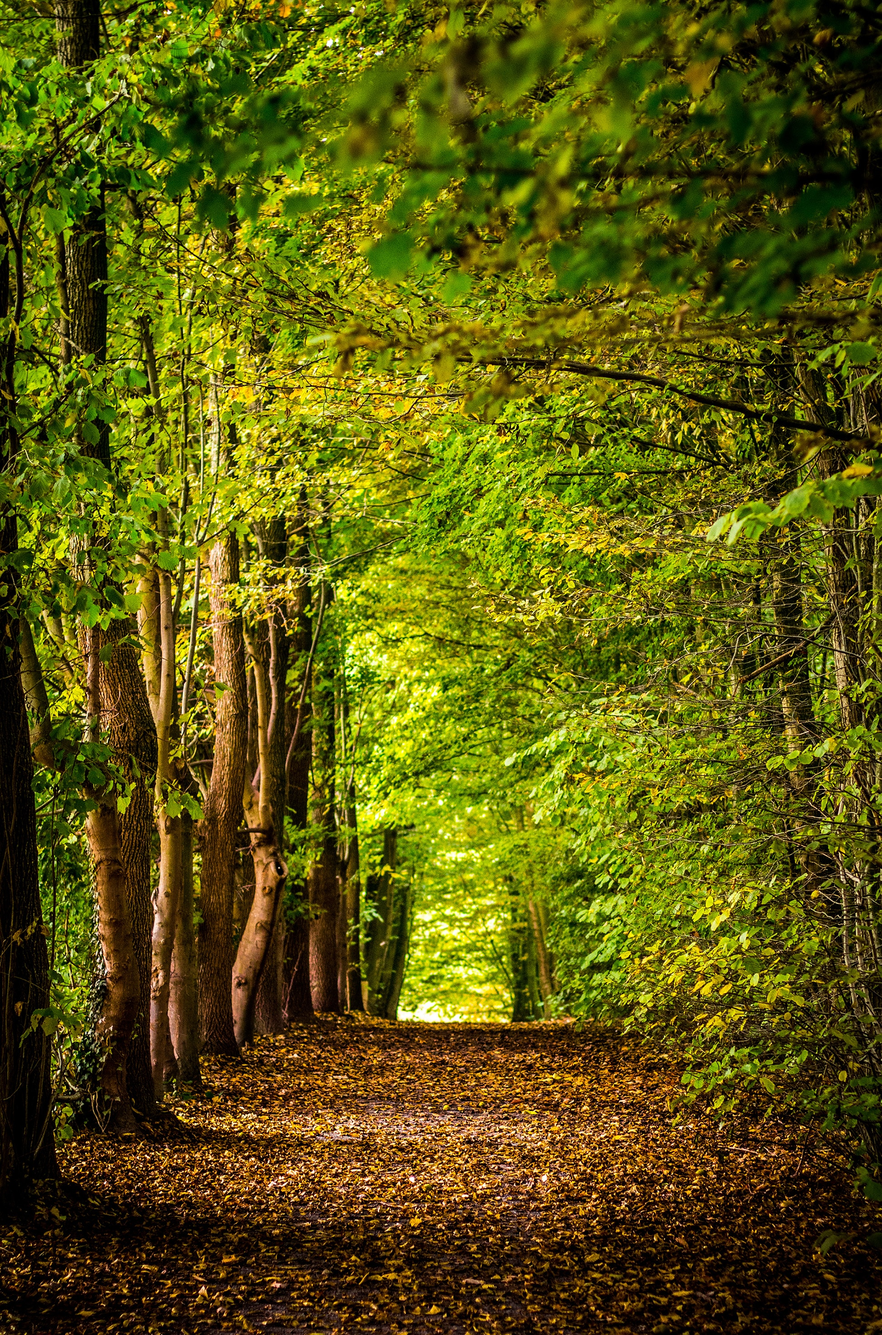
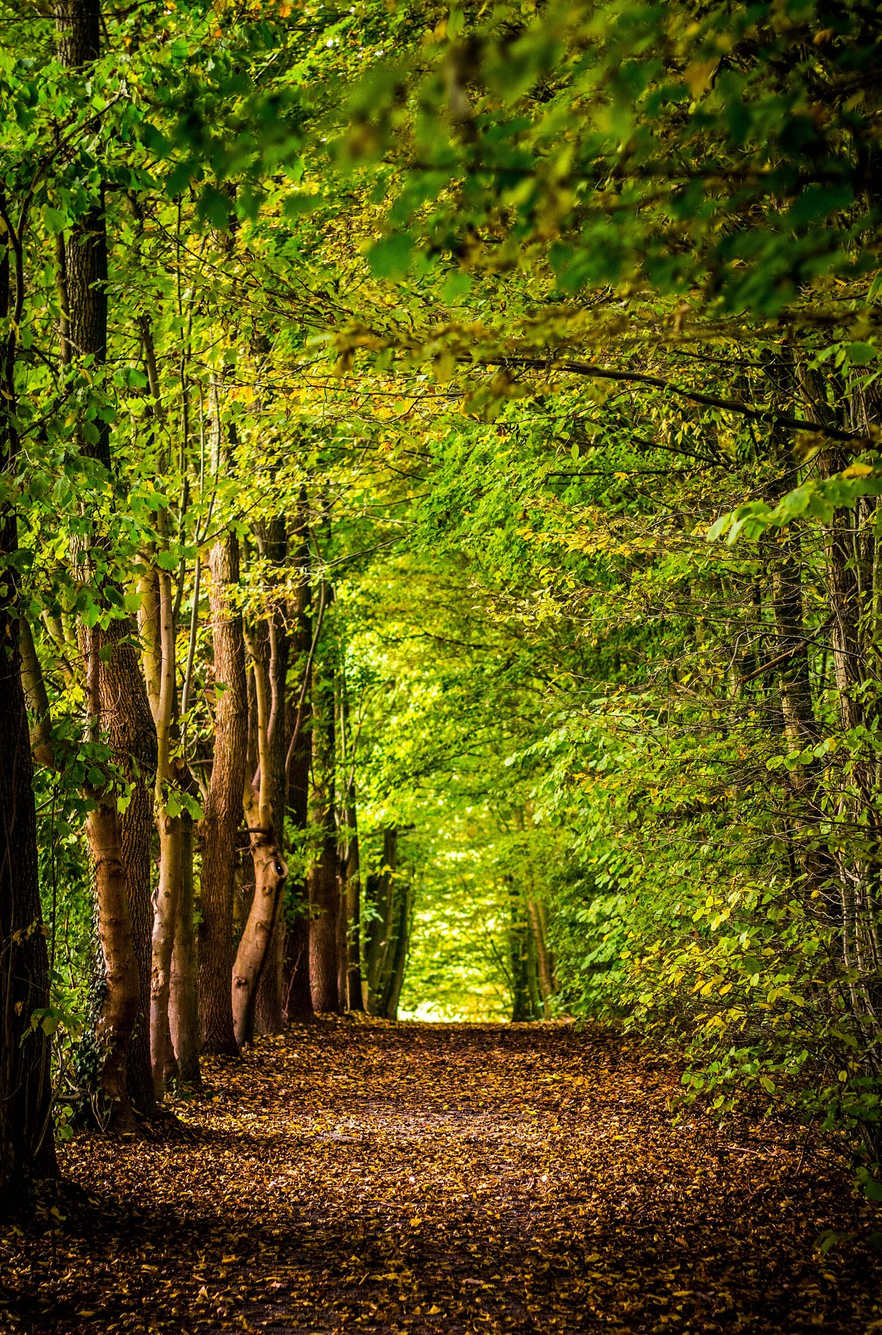
-Added exit title instructions to gallery -Compressed nature images -Added left and right arrows to lightbox gallery -Added keypress Event Listeners to lightbox gallery -Added click functionality to left and right arrows

diff --git a/gallery_assets/gallery_js/gallery-nature.js b/gallery_assets/gallery_js/gallery-nature.js
@@ -6,11 +6,24 @@ const lightbox = document.createElement('div');
 
 //Give the lightbox div an id
 lightbox.id = 'lightbox';
-lightbox.tabIndex = -1;
+lightbox.tabIndex = -1;//Sets tabindex for focus
 
-//Appends the lightbox div to the body element 
-document.body.appendChild(lightbox);
+//Create Arrows
+// Left arrow
+let leftArrDiv = document.createElement('div'); 
+leftArrDiv.innerHTML = "<span>&lt;</span>";
+leftArrDiv.classList.add('left-arrow');
 
+// Right arrow
+let rightArrDiv = document.createElement('div');
+rightArrDiv.innerHTML = "</span>&gt;</span>";
+rightArrDiv.classList.add('right-arrow');
+
+//Appends the lightbox div to the body element(removed and attached to container instead)
+// document.body.appendChild(lightbox);
+
+let container = document.getElementById('container'); 
+container.insertAdjacentElement('beforeend', lightbox);
 
 //Iterate through each of the masonry items in the array
 items.forEach((item) => {
@@ -25,6 +38,7 @@ items.forEach((item) => {
     lightbox.classList.add('active');
     const image = document.createElement('img');    
     image.src = img.src;
+    image.classList.add('lightbox-image');
     image.tabIndex = -1;
 
     //Remove existing image if present before appending new image
@@ -32,9 +46,31 @@ items.forEach((item) => {
       lightbox.removeChild(lightbox.firstChild);
     }
     lightbox.appendChild(image);
+
+    //Append exit message above images (This will be changed to a close icon in future releases)
+    let msgDiv = document.createElement('div');
+    let msg = document.createTextNode("CLICK OUTSIDE THE IMAGE TO EXIT!");
+    msgDiv.appendChild(msg);
+    msgDiv.classList.add('msg-container');
     
+    // Left arrow
+    // let leftArrDiv = document.createElement('div'); 
+    // leftArrDiv.innerHTML = "<span>&lt;</span>";
+    // leftArrDiv.classList.add('left-arrow');
+    
+    // Right arrow
+    // let rightArrDiv = document.createElement('div');
+    // rightArrDiv.innerHTML = "</span>&gt;</span>";
+    // rightArrDiv.classList.add('right-arrow');
+
+    // Insert new elements into the DOM
+    lightbox.insertBefore(leftArrDiv, image);
+    lightbox.insertBefore(msgDiv, leftArrDiv);
+    lightbox.appendChild(rightArrDiv);
   });
+
   console.log(img.src);
+  
 });
 
 // This code will close the lightbox
@@ -45,8 +81,17 @@ lightbox.addEventListener('click', (event) => {
     lightbox.classList.remove('active');
 });
 
+
+// Code for scrolling with keypress
 lightbox.addEventListener('keydown', (event) => {
-  console.log(event.keyCode);
+  console.log(items);
+  let currentImgSrc = String(event.target.currentSrc);
+  let sources = [];
+
+  //Initialize Sources array to get all image sources
+  for(let i = 0; i < items.length; i++) {
+    sources.push(items[i].children[0].src);
+  }
 
   // If ESC key is pressed window closes
   if(event.keyCode === 27) {
@@ -55,19 +100,100 @@ lightbox.addEventListener('keydown', (event) => {
 
   //left arrow pressed
   else if(event.keyCode === 37){
-    console.log("left arrow pressed!");
 
+    let currentSrcIndex = sources.indexOf(currentImgSrc);
+    let newSrcIndex = currentSrcIndex - 1;
+
+    //new image with a source one index less than current
+    const newImage = document.createElement('img');
+    newImage.classList.add('lightbox-image');
+    newImage.src = sources[currentSrcIndex - 1];
+    
+
+    console.log("Original Image Src: " + currentImgSrc);
+    console.log("New Image Src: " + sources[currentSrcIndex - 1]);
+    console.log("Source Index: " + currentSrcIndex);
+    console.log("New Source Index: " + (currentSrcIndex - 1));
+
+    
+    //Ensure the sources array does not go below 0th index
+    if(newSrcIndex >= 0) {
+      //Update Dom with newImage
+      lightbox.replaceChild(newImage, lightbox.childNodes[2]);
+      newImage.tabIndex = -1;//Sets tabindex for focus on new images
+    }
+    else{
+      //remove left arrow when at start of array
+      let arrow = document.getElementsByClassName('left-arrow');
+      lightbox.removeChild(arrow);
+      
+      if(arrow)
+      newSrcIndex = currentSrcIndex;
+
+      //Update DOM with same image
+    }
+  }
+  else if(event.keyCode === 39) {
+    console.log(lightbox.childNodes);
+    console.log("right arrow pressed");
+  }  
+});
+
+// Code for clicking on arrows
+leftArrDiv.addEventListener('click', (event) => {
+  let sources = [];
+
+  //Initialize Sources array to get all image sources
+  for(let i = 0; i < items.length; i++) {
+    sources.push(items[i].children[0].src);
   }
 
-  else if(event.keyCode === 39) {
-    console.log("right arrow pressed");
+  let currentImgSrc = String(lightbox.childNodes[2].src);
+  console.log("CIS");
+  console.log(currentImgSrc);
+  let currentSrcIndex = sources.indexOf(currentImgSrc);
+  let newSrcIndex = currentSrcIndex - 1;
+  
+
+  //new image with a source one index less than current
+  const newImage = document.createElement('img');
+  newImage.classList.add('lightbox-image');
+  newImage.src = sources[currentSrcIndex - 1];
+
+  if(newSrcIndex >= 0) {
+    //Update Dom with newImage
+    lightbox.replaceChild(newImage, lightbox.childNodes[2]);
+    newImage.tabIndex = -1;//Sets tabindex for focus on new images
   }
 });
 
+rightArrDiv.addEventListener('click', (event) => {
+  let sources = [];
+
+  //Initialize Sources array to get all image sources
+  for(let i = 0; i < items.length; i++) {
+    sources.push(items[i].children[0].src);
+  }
+
+  let currentImgSrc = String(lightbox.childNodes[2].src);
+  let currentSrcIndex = sources.indexOf(currentImgSrc);
+  let newSrcIndex = currentSrcIndex + 1;
+  
+  console.log("Original Image Src: " + currentImgSrc);
+  console.log("New Image Src: " + sources[currentSrcIndex + 1]);
+  console.log("Source Index: " + currentSrcIndex);
+  console.log("New Source Index: " + (currentSrcIndex + 1));
 
 
+  //new image with a source one index less than current
+  const newImage = document.createElement('img');
+  newImage.classList.add('lightbox-image');
+  newImage.src = sources[currentSrcIndex + 1];
 
-
-
-
-console.log(items);
+  if(newSrcIndex < sources.length) {
+    //Update Dom with newImage
+    lightbox.replaceChild(newImage, lightbox.childNodes[2]);
+    newImage.tabIndex = -1;//Sets tabindex for focus on new images
+  }
+  
+});

diff --git a/gallery-nature.html b/gallery-nature.html
@@ -3,14 +3,14 @@
 <head>
   <meta charset="UTF-8">
   <meta name="viewport" content="width=device-width, initial-scale=1.0">
-  <link href="https://fonts.googleapis.com/css?family=Exo:200|Fauna+One|Glegoo|Lora:400,700|Titillium+Web:200,400&display=swap" rel="stylesheet">
+  <link href="https://fonts.googleapis.com/css?family=Exo:200&display=swap" rel="stylesheet">
   <link rel="stylesheet" href="./gallery_assets/gallery_css/gallery-nature.css">
   <script defer src="./gallery_assets/gallery_js/gallery-nature.js"></script>
   <script defer src="https://unpkg.com/ionicons@5.0.0/dist/ionicons.js"></script>  
   <title>Gallery | Nature Photography</title>
 </head>
 <body>
-  <div class="container">
+  <div class="container" id="container">
     <header>
       <div id="branding">
         <a href=""><img src="gallery_assets/img/4Square_logo.jpg" alt="" width="200px"></a>

diff --git a/gallery_assets/gallery_css/gallery-nature.css b/gallery_assets/gallery_css/gallery-nature.css
@@ -230,6 +230,36 @@ header a:hover, #title-link:hover{
   display: flex;
   justify-content: center;
   align-items: center;
+  width: 100%;
+  overflow: hidden;
+}
+
+.msg-container {
+  font-family: exo;
+  color: #fff;
+  font-size: 2em;
+  padding-top: 2%;
+  position: absolute;
+  top: 0;
+}
+
+.left-arrow {
+  color: #fff;
+  font-size: 10em;
+  margin-right: 2%;
+  opacity: .7;
+}
+
+.right-arrow {
+  color: #fff;
+  font-size: 10em;
+  margin-left: 2%;
+  opacity: .7;
+}
+
+.left-arrow:hover, .right-arrow:hover {
+  opacity: 1;
+  cursor: pointer;
 }
 
 /* Footer Styles */
